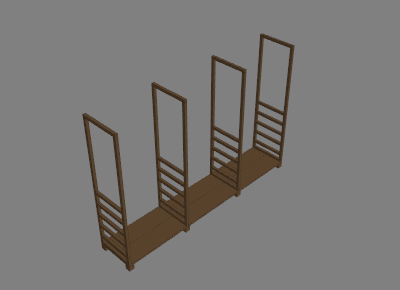
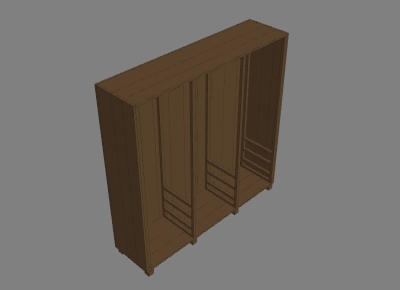
ombouw

Changed region(s): [[0.21, 0.0621, 0.75, 0.9621]]

diff --git a/onderdelen/input_data.py b/onderdelen/input_data.py
@@ -12,19 +12,19 @@ def input_data():
     #global breedte_kast,hoogte_kast,diepte_kast,breedte_plank,lengte_plank,dikte_plank,niveaus,tussenschot,plankhoogte,hoogte_voet
     indeling_correct = False
     while indeling_correct == False:
-        cfg.breedte_kast=400 #float(input('Wat is de breedte van de kast in cm? '))
-        voetjes=str('ja') #raw_input('heeft de kast pootjes? [y/n] '))
+        cfg.breedte_kast=300#float(input('Wat is de breedte van de kast in cm? '))
+        cfg.hoogte_kast=300#float(input('Wat is de hoogte van de kast in cm? '))
+        cfg.diepte_kast=80#float(input('Wat is de diepte van de kast in cm? '))
+        voetjes=str('ja')#str(input('heeft de kast pootjes? [y/n] '))
         if voetjes == ('ja' or 'JA') or ('Ja' or 'YES') or ('yes' or 'Yes') or ('j' or 'y'):
-            cfg.hoogte_voet=10 #float(input('Hoe hoog zijn de pootjes in cm? '))
+            cfg.hoogte_voet=10#float(input('Hoe hoog zijn de pootjes in cm? '))
         else:
             cfg.hoogte_voet = 0.
-        cfg.hoogte_kast=266 #float(input('Wat is de hoogte van de kast in cm? '))
-        cfg.hoogte_kast=cfg.hoogte_kast
-        cfg.diepte_kast=80 #float(input('Wat is de diepte van de kast in cm? '))
-        cfg.breedte_plank= 40 #float(input('Wat is de breedte van de plank in cm? '))
-        cfg.lengte_plank=400 #float(input('Wat is de lengte van de plank in cm? '))
-        cfg.dikte_plank=3.2 #float(input('Wat is de dikte van de plank in cm? '))
-        cfg.niveaus=5 #int(input('Hoeveel niveaus wil je ? '))
+        #cfg.hoogte_kast=cfg.hoogte_kast
+        cfg.breedte_plank=30.#float(input('Wat is de breedte van de plank in cm? '))
+        cfg.lengte_plank=400.#float(input('Wat is de lengte van de plank in cm? '))
+        cfg.dikte_plank=3.2#float(input('Wat is de dikte van de plank in cm? '))
+        cfg.niveaus=3#int(input('Hoeveel niveaus wil je ? '))
         #cfg.tussenschot =int(input('Hoeveel tussenschotten wil je ? '))
         if cfg.hoogte_kast > cfg.lengte_plank:
             print('De kast is hoger dan de hoogte van de plank dat is niet mogelijk!')
@@ -41,12 +41,12 @@ def input_data():
         for niveau in range(cfg.niveaus):
             #print('Er zijn %d niveaus ' % (niveaus))
             if niveau == 0:
-                afstand=20 #int(input('Wat is de afstand van onderplank tot plank %d in cm? ' % (niveau+1)))
+                afstand=20#int(input('Wat is de afstand van onderplank tot plank %d in cm? ' % (niveau+1)))
                 cfg.plankhoogte.append(afstand+cfg.dikte_plank+cfg.hoogte_voet)
                 htot=htot+cfg.plankhoogte[niveau]
                 print('Er is nu afstand %.1f cm van onder en nog %.1f cm vrije ruimte er boven' % (htot, cfg.hoogte_kast-htot-cfg.dikte_plank))
             else:
-                cfg.afstand=30 #float(input('Wat is de afstand tussen plank %d en plank %d in cm? ' % (niveau,niveau+1)))
+                cfg.afstand=20#float(input('Wat is de afstand tussen plank %d en plank %d in cm? ' % (niveau,niveau+1)))
                 if afstand != 0:  
                     cfg.plankhoogte.append(afstand+cfg.dikte_plank)
                     htot=htot+cfg.plankhoogte[niveau]
@@ -60,7 +60,7 @@ def input_data():
                 print('De afstand van plank %s tot plank %s is %.1f cm' % (niveau,niveau+1,cfg.plankhoogte[niveau]))
                 if niveau == cfg.niveaus-1:
                     print('De afstand van de bovenkant van de bovenste plank tot de onderkant van de bovenplank van de kast is %.1f cm' % (cfg.hoogte_kast-cfg.dikte_plank-htot))
-        check=str('ja')   #raw_input('Ben je tevreden met deze waarden ? [Ja/Nee] '))
+        check=str('ja')#str(input('Ben je tevreden met deze waarden ? [Ja/Nee] '))
         if check == ('ja' or 'JA') or ('Ja' or 'YES') or ('yes' or 'Yes') or ('j' or 'y'):
             indeling_correct = True
         print('')

diff --git a/onderdelen/ribben.py b/onderdelen/ribben.py
@@ -46,7 +46,7 @@ def maak():
     
 def rib(ux):
     hoogte_kast=cfg.hoogte_kast
-    breedte_kast=cfg.breedte_kast
+    #breedte_kast=cfg.breedte_kast
     diepte_kast=cfg.diepte_kast
     dikte_plank=cfg.dikte_plank
     
@@ -61,7 +61,7 @@ def rib(ux):
     
     Ribben=[]
 
-    #rib1
+    #rib1 - onder
     r1=p.plank(lengte_rib,breedte_rib,dikte_rib)
 
     r1.plank_zagen(diepte_kast-2*dikte_plank,breedte_rib,dikte_rib)
@@ -75,35 +75,35 @@ def rib(ux):
     rib1=r1.balk()
     Ribben.append(rib1)
     
-    #rib2
+    #rib2 - ene zeide
     r2=p.plank(lengte_rib,breedte_rib,dikte_rib)
 
-    r2.plank_zagen(hoogte_kast-dikte_plank-hoogte_voet-2*dikte_rib,breedte_rib,dikte_rib)
+    r2.plank_zagen(hoogte_kast-2*dikte_plank-hoogte_voet-2*dikte_rib,breedte_rib,dikte_rib)
     r1.aantal=r1.aantal+1
     rx,ry,rz=0,90,0
     #ux=breedte_kast/2.-dikte_plank-dikte_rib/2.
     uy=diepte_kast/2.-dikte_plank-dikte_rib/2.
-    uz=hoogte_voet+dikte_plank+(hoogte_kast-dikte_plank-hoogte_voet)/2.
+    uz=hoogte_voet+dikte_plank+(hoogte_kast-dikte_plank*2-hoogte_voet)/2.
     sx,sy,sz=1,1,1
     r2.transformatie(rx,ry,rz,ux,uy,uz,sx,sy,sz) #rx,ry,rz,ux,uy,uz,sx,sy,sz 
     rib2=r2.balk()
     Ribben.append(rib2)
     
-    #rib3
+    #rib3 - andere zeide
     r3=p.plank(lengte_rib,breedte_rib,dikte_rib)
 
-    r3.plank_zagen(hoogte_kast-dikte_plank-hoogte_voet-2*dikte_rib,breedte_rib,dikte_rib)
+    r3.plank_zagen(hoogte_kast-2*dikte_plank-hoogte_voet-2*dikte_rib,breedte_rib,dikte_rib)
     r1.aantal=r1.aantal+1
     rx,ry,rz=0,90,0
     #ux=breedte_kast/2.-dikte_plank-dikte_rib/2.
     uy=-(diepte_kast/2.-dikte_plank-dikte_rib/2.)
-    uz=hoogte_voet+dikte_plank+(hoogte_kast-dikte_plank-hoogte_voet)/2.
+    uz=hoogte_voet+dikte_plank+(hoogte_kast-dikte_plank*2-hoogte_voet)/2.
     sx,sy,sz=1,1,1
     r3.transformatie(rx,ry,rz,ux,uy,uz,sx,sy,sz) #rx,ry,rz,ux,uy,uz,sx,sy,sz 
     rib3=r3.balk()
     Ribben.append(rib3)
     
-    #rib4
+    #rib4 - bovenkant
     r4=p.plank(lengte_rib,breedte_rib,dikte_rib)
 
     r4.plank_zagen(diepte_kast-2*dikte_plank,breedte_rib,dikte_rib)
@@ -111,7 +111,7 @@ def rib(ux):
     rx,ry,rz=0,0,90
     #ux=breedte_kast/2.-dikte_plank-dikte_rib/2.
     uy=0
-    uz=hoogte_kast-dikte_rib/2.
+    uz=hoogte_kast-dikte_rib/2.-dikte_plank
     sx,sy,sz=1,1,1
     r4.transformatie(rx,ry,rz,ux,uy,uz,sx,sy,sz) #rx,ry,rz,ux,uy,uz,sx,sy,sz 
     rib4=r4.balk()

diff --git a/onderdelen/zeiplanken.py b/onderdelen/zeiplanken.py
@@ -11,30 +11,31 @@ from onderdelen import config as cfg
 from math import floor
 
 def maak():
-    
-    hoogte_kast=cfg.hoogte_kast
-    #diepte_kast=cfg.diepte_kast
-    #breedte_plank=cfg.breedte_plank
-    #lengte_plank=cfg.lengte_plank
+    breedte_kast=cfg.breedte_kast
     dikte_plank=cfg.dikte_plank
-    #breedte_kast=cfg.breedte_kast
-    hoogte_voet=cfg.hoogte_voet
     
-    onderstel=stel(hoogte_voet+dikte_plank/2.)
-    bovenkant=stel(hoogte_kast-dikte_plank/2.)
+    zeilist=[]
     
-    return onderstel+bovenkant
+    zeilist.append(zeide(breedte_kast/2.-dikte_plank/2.))
+    zeilist.append(zeide(-(breedte_kast/2.-dikte_plank/2.)))
+    
+    combined_zeilist=[]
+    for zei in range(len(zeilist)):
+        combined_zeilist=combined_zeilist+zeilist[zei]
+    
+    return combined_zeilist
 
-def stel(uz):
+def zeide(ux):
     Breedtes=[]
     Balken=[]
     
+    hoogte_kast=cfg.hoogte_kast
     diepte_kast=cfg.diepte_kast
     breedte_plank=cfg.breedte_plank
     lengte_plank=cfg.lengte_plank
     dikte_plank=cfg.dikte_plank
-    breedte_kast=cfg.breedte_kast
-    #hoogte_voet=cfg.hoogte_voet
+    #breedte_kast=cfg.breedte_kast
+    hoogte_voet=cfg.hoogte_voet
     
     d=float(diepte_kast-2*dikte_plank)
     b=float(breedte_plank)
@@ -68,15 +69,14 @@ def stel(uz):
     Breedtes.reverse()
     for planken in range(len(Breedtes)):
         plank=p.plank(lengte_plank,breedte_plank,dikte_plank)
-        plank.plank_zagen(breedte_kast-2*dikte_plank,Breedtes[planken],dikte_plank)
-        rx,ry,rz=0,0,0
-        ux=0.
+        plank.plank_zagen(hoogte_kast-hoogte_voet,Breedtes[planken],dikte_plank)
+        rx,ry,rz=0,90,0
 
         if planken == 0:
             uy = uy - Breedtes[planken]/2.
         else:
             uy = uy - Breedtes[planken]/2. - Breedtes[planken-1]/2.
-        
+        uz=hoogte_voet+(hoogte_kast-hoogte_voet)/2.
         sx,sy,sz=1,1,1
         plank.transformatie(rx,ry,rz,ux,uy,uz,sx,sy,sz) #rx,ry,rz,ux,uy,uz,sx,sy,sz 
         balk=plank.balk()

diff --git a/onderdelen/achterplank.py b/onderdelen/achterplank.py
@@ -11,32 +11,18 @@ from onderdelen import config as cfg
 from math import floor
 
 def maak():
-    
-    hoogte_kast=cfg.hoogte_kast
-    #diepte_kast=cfg.diepte_kast
-    #breedte_plank=cfg.breedte_plank
-    #lengte_plank=cfg.lengte_plank
-    dikte_plank=cfg.dikte_plank
-    #breedte_kast=cfg.breedte_kast
-    hoogte_voet=cfg.hoogte_voet
-    
-    onderstel=stel(hoogte_voet+dikte_plank/2.)
-    bovenkant=stel(hoogte_kast-dikte_plank/2.)
-    
-    return onderstel+bovenkant
-
-def stel(uz):
     Breedtes=[]
     Balken=[]
     
+    hoogte_kast=cfg.hoogte_kast
     diepte_kast=cfg.diepte_kast
     breedte_plank=cfg.breedte_plank
     lengte_plank=cfg.lengte_plank
     dikte_plank=cfg.dikte_plank
     breedte_kast=cfg.breedte_kast
-    #hoogte_voet=cfg.hoogte_voet
+    hoogte_voet=cfg.hoogte_voet
     
-    d=float(diepte_kast-2*dikte_plank)
+    d=float(breedte_kast)
     b=float(breedte_plank)
     
     fractie_planken=d/b
@@ -63,20 +49,21 @@ def stel(uz):
         for planken in range(hele_planken):
             Breedtes.append(b)
     
-    uy=diepte_kast/2.- dikte_plank
+    ux=breedte_kast/2.
 
     Breedtes.reverse()
     for planken in range(len(Breedtes)):
         plank=p.plank(lengte_plank,breedte_plank,dikte_plank)
-        plank.plank_zagen(breedte_kast-2*dikte_plank,Breedtes[planken],dikte_plank)
-        rx,ry,rz=0,0,0
-        ux=0.
+        plank.plank_zagen(hoogte_kast-hoogte_voet,Breedtes[planken],dikte_plank)
+        rx,ry,rz=0,90,90
+        
+        uy=-diepte_kast/2. + dikte_plank/2.
 
         if planken == 0:
-            uy = uy - Breedtes[planken]/2.
+            ux = ux - Breedtes[planken]/2.
         else:
-            uy = uy - Breedtes[planken]/2. - Breedtes[planken-1]/2.
-        
+            ux = ux - Breedtes[planken]/2. - Breedtes[planken-1]/2.
+        uz=hoogte_voet+(hoogte_kast-hoogte_voet)/2.
         sx,sy,sz=1,1,1
         plank.transformatie(rx,ry,rz,ux,uy,uz,sx,sy,sz) #rx,ry,rz,ux,uy,uz,sx,sy,sz 
         balk=plank.balk()

diff --git a/onderdelen/plotter.py b/onderdelen/plotter.py
@@ -6,6 +6,8 @@ Created on Tue Jan 11 22:42:49 2022
 @author: windhoos
 """
 
+from onderdelen import config as cfg
+
 import matplotlib.pyplot as plt
 from mpl_toolkits.mplot3d.art3d import Poly3DCollection
 import mayavi.mlab
@@ -14,16 +16,16 @@ def multiplot(breedte,hoogte,diepte,amax,aanzicht,*args):
     
     fig = plt.figure(dpi=100)
     ax = fig.add_subplot(111, projection='3d')
-    #teller=0
+    teller=0
     for arg in args:
         for balk in range(len(arg)):
-            #teller=teller+1
+            teller=teller+6
             vlakken = arg[balk]
             faces = Poly3DCollection(vlakken, linewidths=.1, edgecolors='k')
             faces.set_facecolor((0.45,0.1,0,1))
             ax.add_collection3d(faces)
-            #print('')
-            #print(teller)
+
+    cfg.procent=teller
     plt.title('Kast assembly')
     ax.autoscale(True)
     ax.set_aspect('auto')
@@ -67,7 +69,7 @@ def mayaviplot(breedte,hoogte,diepte,amax,aanzicht,*args):
                 z4=vlakken[i][2][2]
                 z3=vlakken[i][3][2]
                 teller=teller+1
-                print('Mesh vlak af '+str(teller))
+                print('Voortgang: '+str(int((1000.*teller/cfg.procent))/10.)+'% - Mesh vlak: '+str(teller))
                 
                 mayavi.mlab.mesh([[x1, x2],
                               [x3, x4]],  # | => x coordinate

diff --git a/main.py b/main.py
@@ -6,7 +6,7 @@ Created on Tue Jan 11 22:40:57 2022
 @author: windhoos
 """
 
-from onderdelen import input_data, voeten, onderstel, ribben
+from onderdelen import input_data, voeten, onderstel, ribben, zeiplanken, achterplank
 from onderdelen import config as cfg
 from onderdelen import plotter
 
@@ -16,10 +16,12 @@ def main():
     Voeten=voeten.maak()
     Onderstel=onderstel.maak()
     Ribben=ribben.maak()
+    Zeiden=zeiplanken.maak()
+    Achterplank=achterplank.maak()
     
     #plotten
     amax=max(cfg.breedte_kast,cfg.hoogte_kast,cfg.diepte_kast)
     
-    plotter.multiplot(cfg.breedte_kast,cfg.hoogte_kast,cfg.diepte_kast,amax,'iso',Voeten,Onderstel,Ribben)
-    plotter.mayaviplot(cfg.breedte_kast,cfg.hoogte_kast,cfg.diepte_kast,amax,'iso',Voeten,Onderstel,Ribben)
+    plotter.multiplot(cfg.breedte_kast,cfg.hoogte_kast,cfg.diepte_kast,amax,'iso',Voeten,Onderstel,Ribben,Zeiden,Achterplank)
+    plotter.mayaviplot(cfg.breedte_kast,cfg.hoogte_kast,cfg.diepte_kast,amax,'iso',Voeten,Onderstel,Ribben,Zeiden,Achterplank)
 main()

diff --git a/onderdelen/config.py b/onderdelen/config.py
@@ -22,3 +22,5 @@ hoogte_voet=0
 breedte_rib=5
 lengte_rib=240
 dikte_rib=breedte_rib
+
+procent=0
